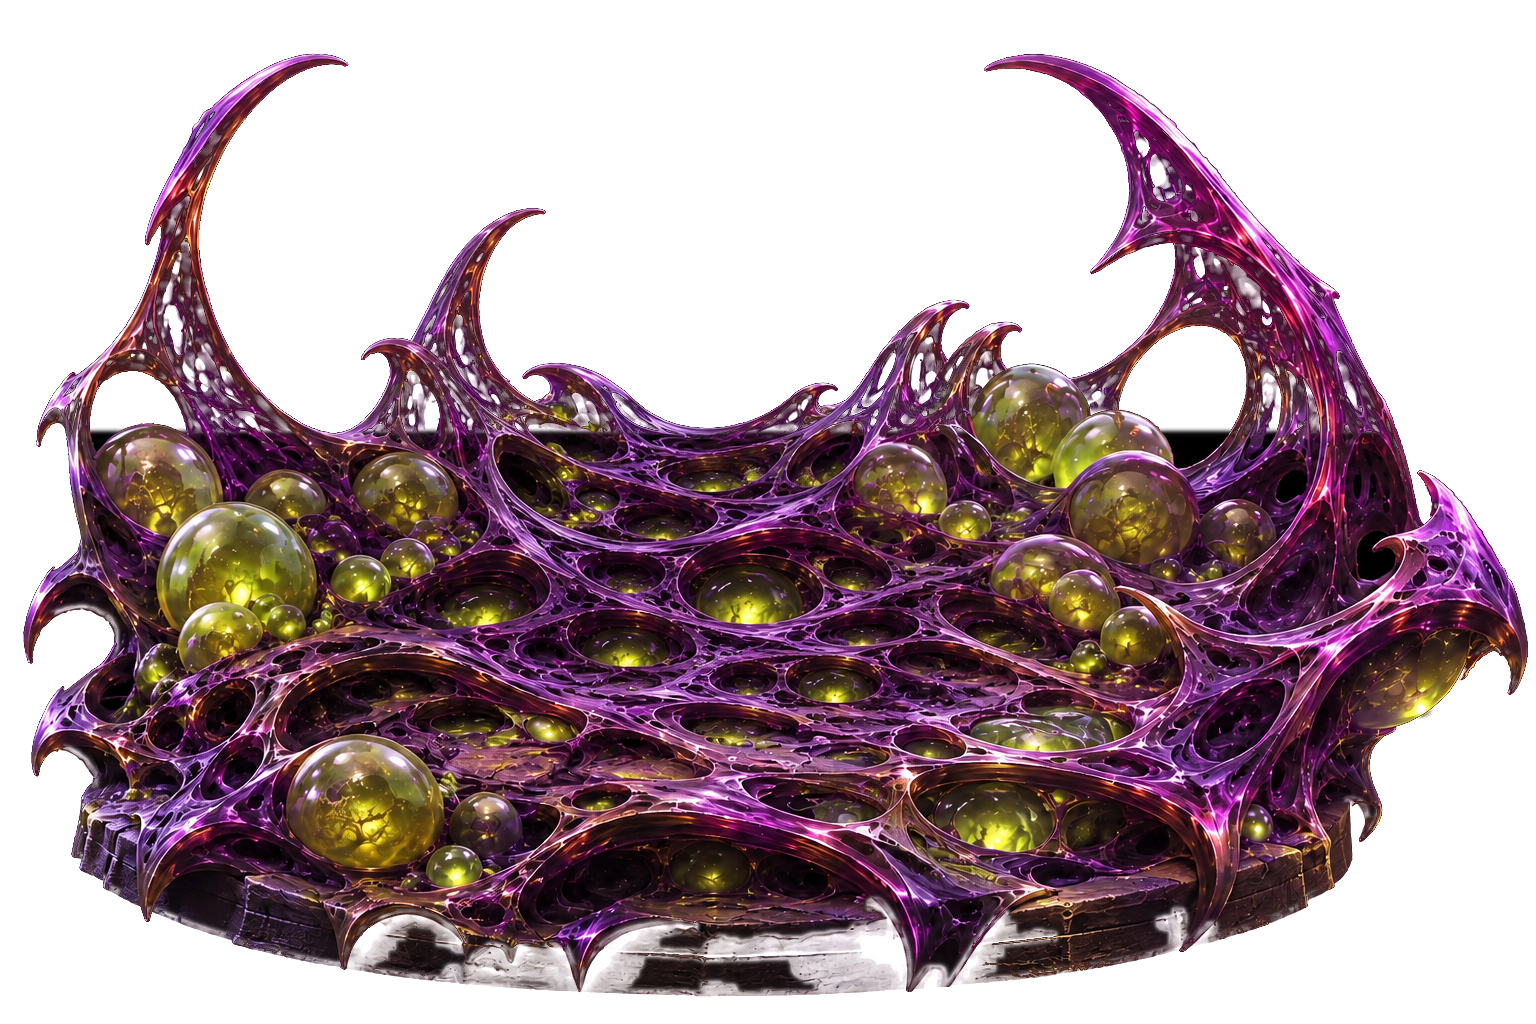
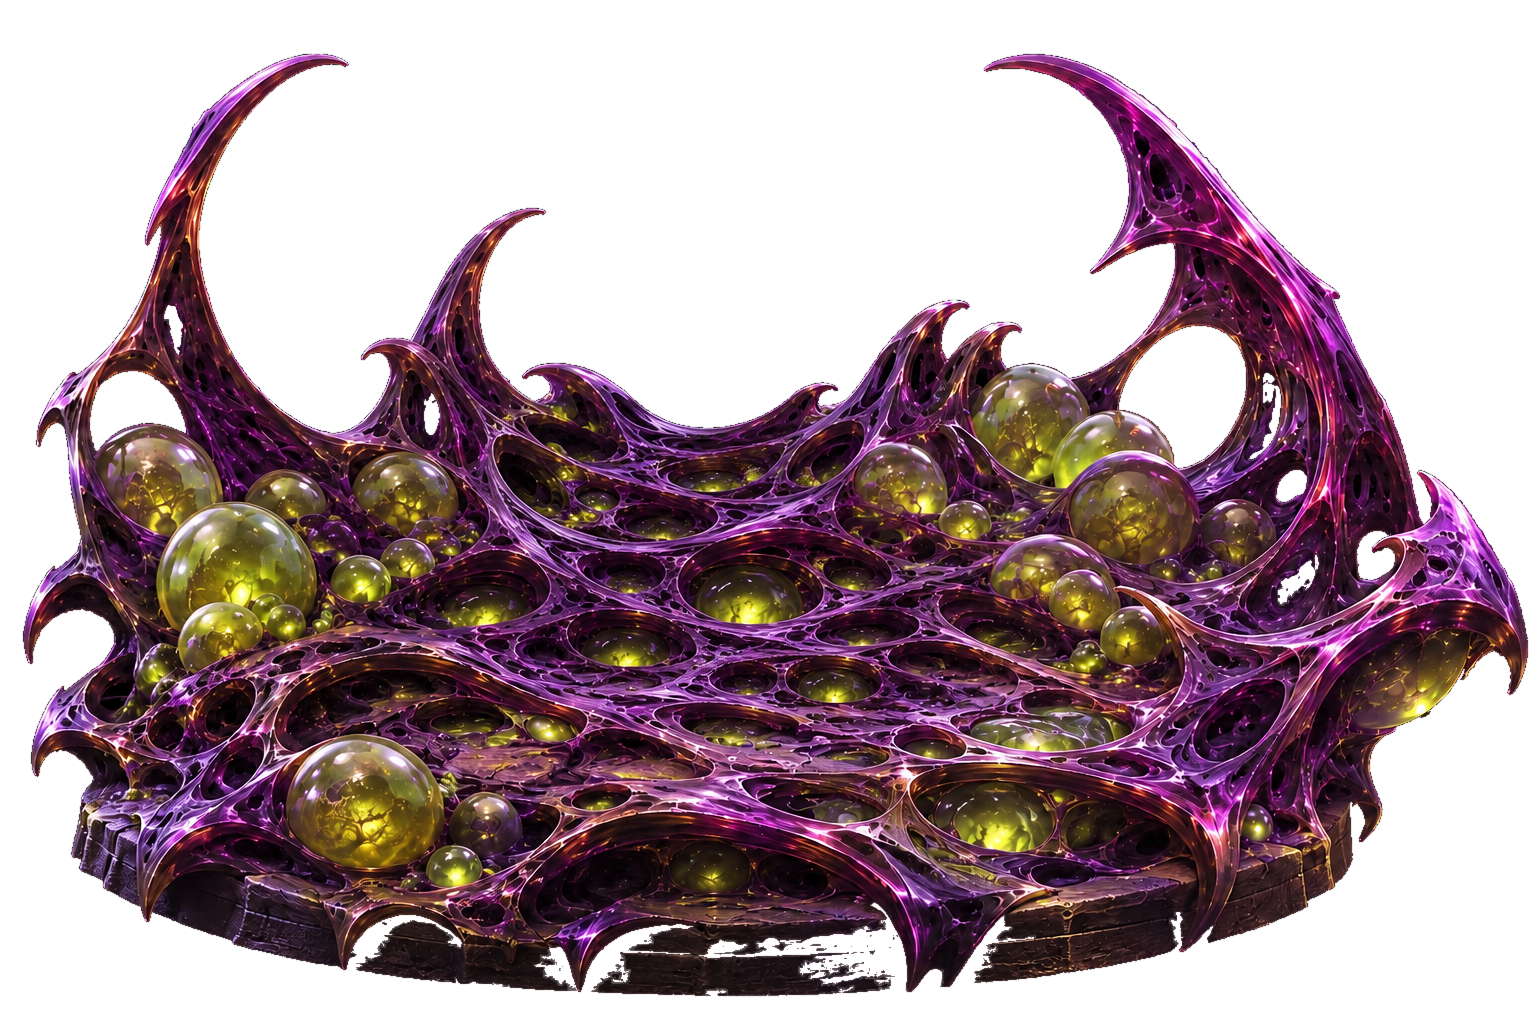
Enjambre: plataforma sin la mancha negra en sus huecos y reloj más abajo
La plataforma se recorta de nuevo desde el PNG de Andreé: el fondo negro conectado
al borde y los huecos de los arcos quedan transparentes, el resto intacto.

Claude-Session: https://claude.ai/code/session_01F2cMaVP1jXDcnxjASp53K6

diff --git a/enjambre/index.html b/enjambre/index.html
@@ -676,7 +676,7 @@ body.con-maqueta:has(#v-hive.on) #swarm{display:block;height:100vh;min-height:0;
 body.con-maqueta #maqueta{width:100%;flex:none;margin:0}
 body.con-maqueta #mq-escenario{display:none!important}
 body.con-maqueta:has(#v-hive.on) .mq-tutor{top:min(45.096vw,calc(100vh - 10.203vw - 14px))!important}
-body.con-maqueta:has(#v-hive.on) .mq-progreso{top:min(30.44vw,calc(100vh - 19.504vw - 2px))!important}
+body.con-maqueta:has(#v-hive.on) .mq-progreso{top:min(36.64vw,calc(100vh - 16.911vw + 2.5vw))!important}
 body.con-maqueta:has(#v-hive.on) .mq-personaje{top:min(26.27vw,calc(100vh - 25.03vw + 5.2vw))!important}
 .inv-huevos{position:relative;margin:0 0 28px;border-radius:18px;overflow:hidden;--s:.8}
 .inv-huevos>img{display:block;width:100%;aspect-ratio:1936/544;object-fit:cover;filter:hue-rotate(28deg) saturate(1.15) brightness(.7)}
@@ -1577,7 +1577,7 @@ function maquetaDraw(){
 
   // progreso: el reloj orgánico de Andreé; el tubo verde se llena en sentido horario desde las 12 según lo resuelto y la aguja marca el avance
   const fr=xs.length?done/xs.length:0, gr=(360*fr).toFixed(2);
-  h+=`<div class="mq-progreso mq-reloj" style="left:${X(1314)};top:${Y(587)};width:${X(460)};height:${Y(300)}">
+  h+=`<div class="mq-progreso mq-reloj" style="left:${X(1314)};top:${Y(650)};width:${X(460)};height:${Y(300)}">
       <div class="mq-rel" role="img" aria-label="Progreso: ${done} de ${xs.length} ejercicios resueltos">
         <img src="maqueta2/reloj4.webp" alt="" draggable="false">
         <img class="mq-rel-verde" src="maqueta2/reloj4-verde.webp" alt="" draggable="false" style="-webkit-mask-image:conic-gradient(from 0deg at 69.1% 40.13%,#000 ${gr}deg,transparent 0);mask-image:conic-gradient(from 0deg at 69.1% 40.13%,#000 ${gr}deg,transparent 0)">
